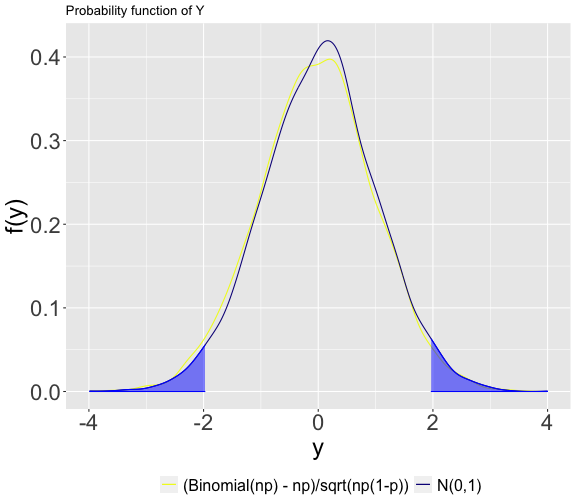
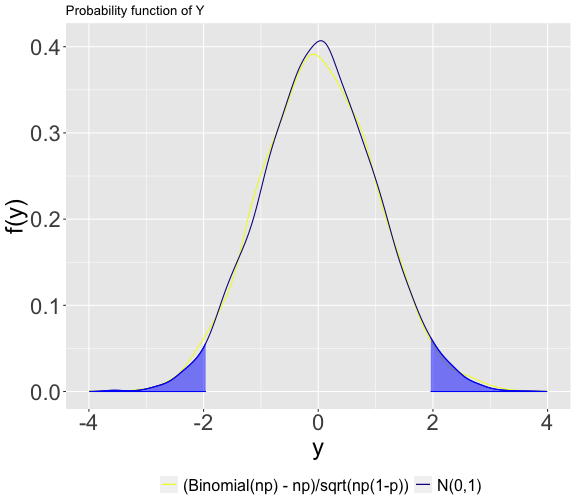
Upload files

diff --git a/slides/class_4/class_4.html b/slides/class_4/class_4.html
@@ -282,7 +282,7 @@ glimpse(coins200)
 ```
 
 ```
-##  int [1:10000] 89 96 124 110 97 96 90 92 99 93 ...
+##  int [1:10000] 96 99 99 94 101 97 103 112 107 97 ...
 ```
 
 ```r
@@ -292,10 +292,10 @@ print(moments)
 
 ```
 ## $mean
-## [1] 100.0751
+## [1] 99.906
 ## 
 ## $var
-## [1] 49.59782
+## [1] 50.22699
 ```
 
 ---
@@ -329,7 +329,6 @@ $$ X \xrightarrow[]{d} \mathcal{N}(\mu=np, \sigma= \sqrt{np(1-p)})$$
 ![](class_4_files/figure-html/unnamed-chunk-4-1.png)&lt;!-- --&gt;
 ]
 
----
 ---
 ## Distribución Binomial es asintóticamente Normal
 
@@ -553,7 +552,8 @@ m[which.max(m[,2]),]
 
 &lt;br&gt;
 
-$$\hat{\boldsymbol{\beta}}_{MLE} = \text{arg max } \text{ } \mathcal{L}(\boldsymbol{\beta} \mid \boldsymbol{X}) $$
+
+`$$\hat{\boldsymbol{\beta}}_{MLE} = \underset{\beta}{\arg\max\ } \mathcal{L}(\boldsymbol{\beta} \mid \boldsymbol{X})$$`
 `\(\hat{\boldsymbol{\beta}}\)` es el MLE de `\(\boldsymbol{\beta}\)` si es valor(es) que maximiza la "likelihood function" condicional en los datos observados.
 
 &lt;br&gt;
@@ -638,7 +638,6 @@ class: inverse, center, middle
 .content-box-blue[
 `$$\sigma_{\hat{p}} =  \frac{\sigma}{\sqrt{n}} =  \sqrt{\frac{p(1-p)}{n}}$$`
 ]
-
 
 
 

diff --git a/slides/class_3/class_3.html b/slides/class_3/class_3.html
@@ -133,6 +133,30 @@ Continuando con nuestro ejemplo:
 
 .pull-left[
 
+```
+## Warning in library("tidyverse", "knitr", "cowplot"): 'cowplot' not found on
+## search path, using pos = 2
+```
+
+```
+## ── Attaching packages ───────────────────────────────────────────────────────────────────────────────────── tidyverse 1.3.0 ──
+```
+
+```
+## ✓ ggplot2 3.3.2     ✓ purrr   0.3.4
+## ✓ tibble  3.0.3     ✓ dplyr   1.0.1
+## ✓ tidyr   1.1.0     ✓ stringr 1.4.0
+## ✓ readr   1.3.1     ✓ forcats 0.5.0
+```
+
+```
+## ── Conflicts ──────────────────────────────────────────────────────────────────────────────────────── tidyverse_conflicts() ──
+## x dplyr::filter() masks stats::filter()
+## x dplyr::lag()    masks stats::lag()
+```
+
+
+
 |y  | P(Y=y) |
 |:--|:------:|
 |2  |  0.03  |
